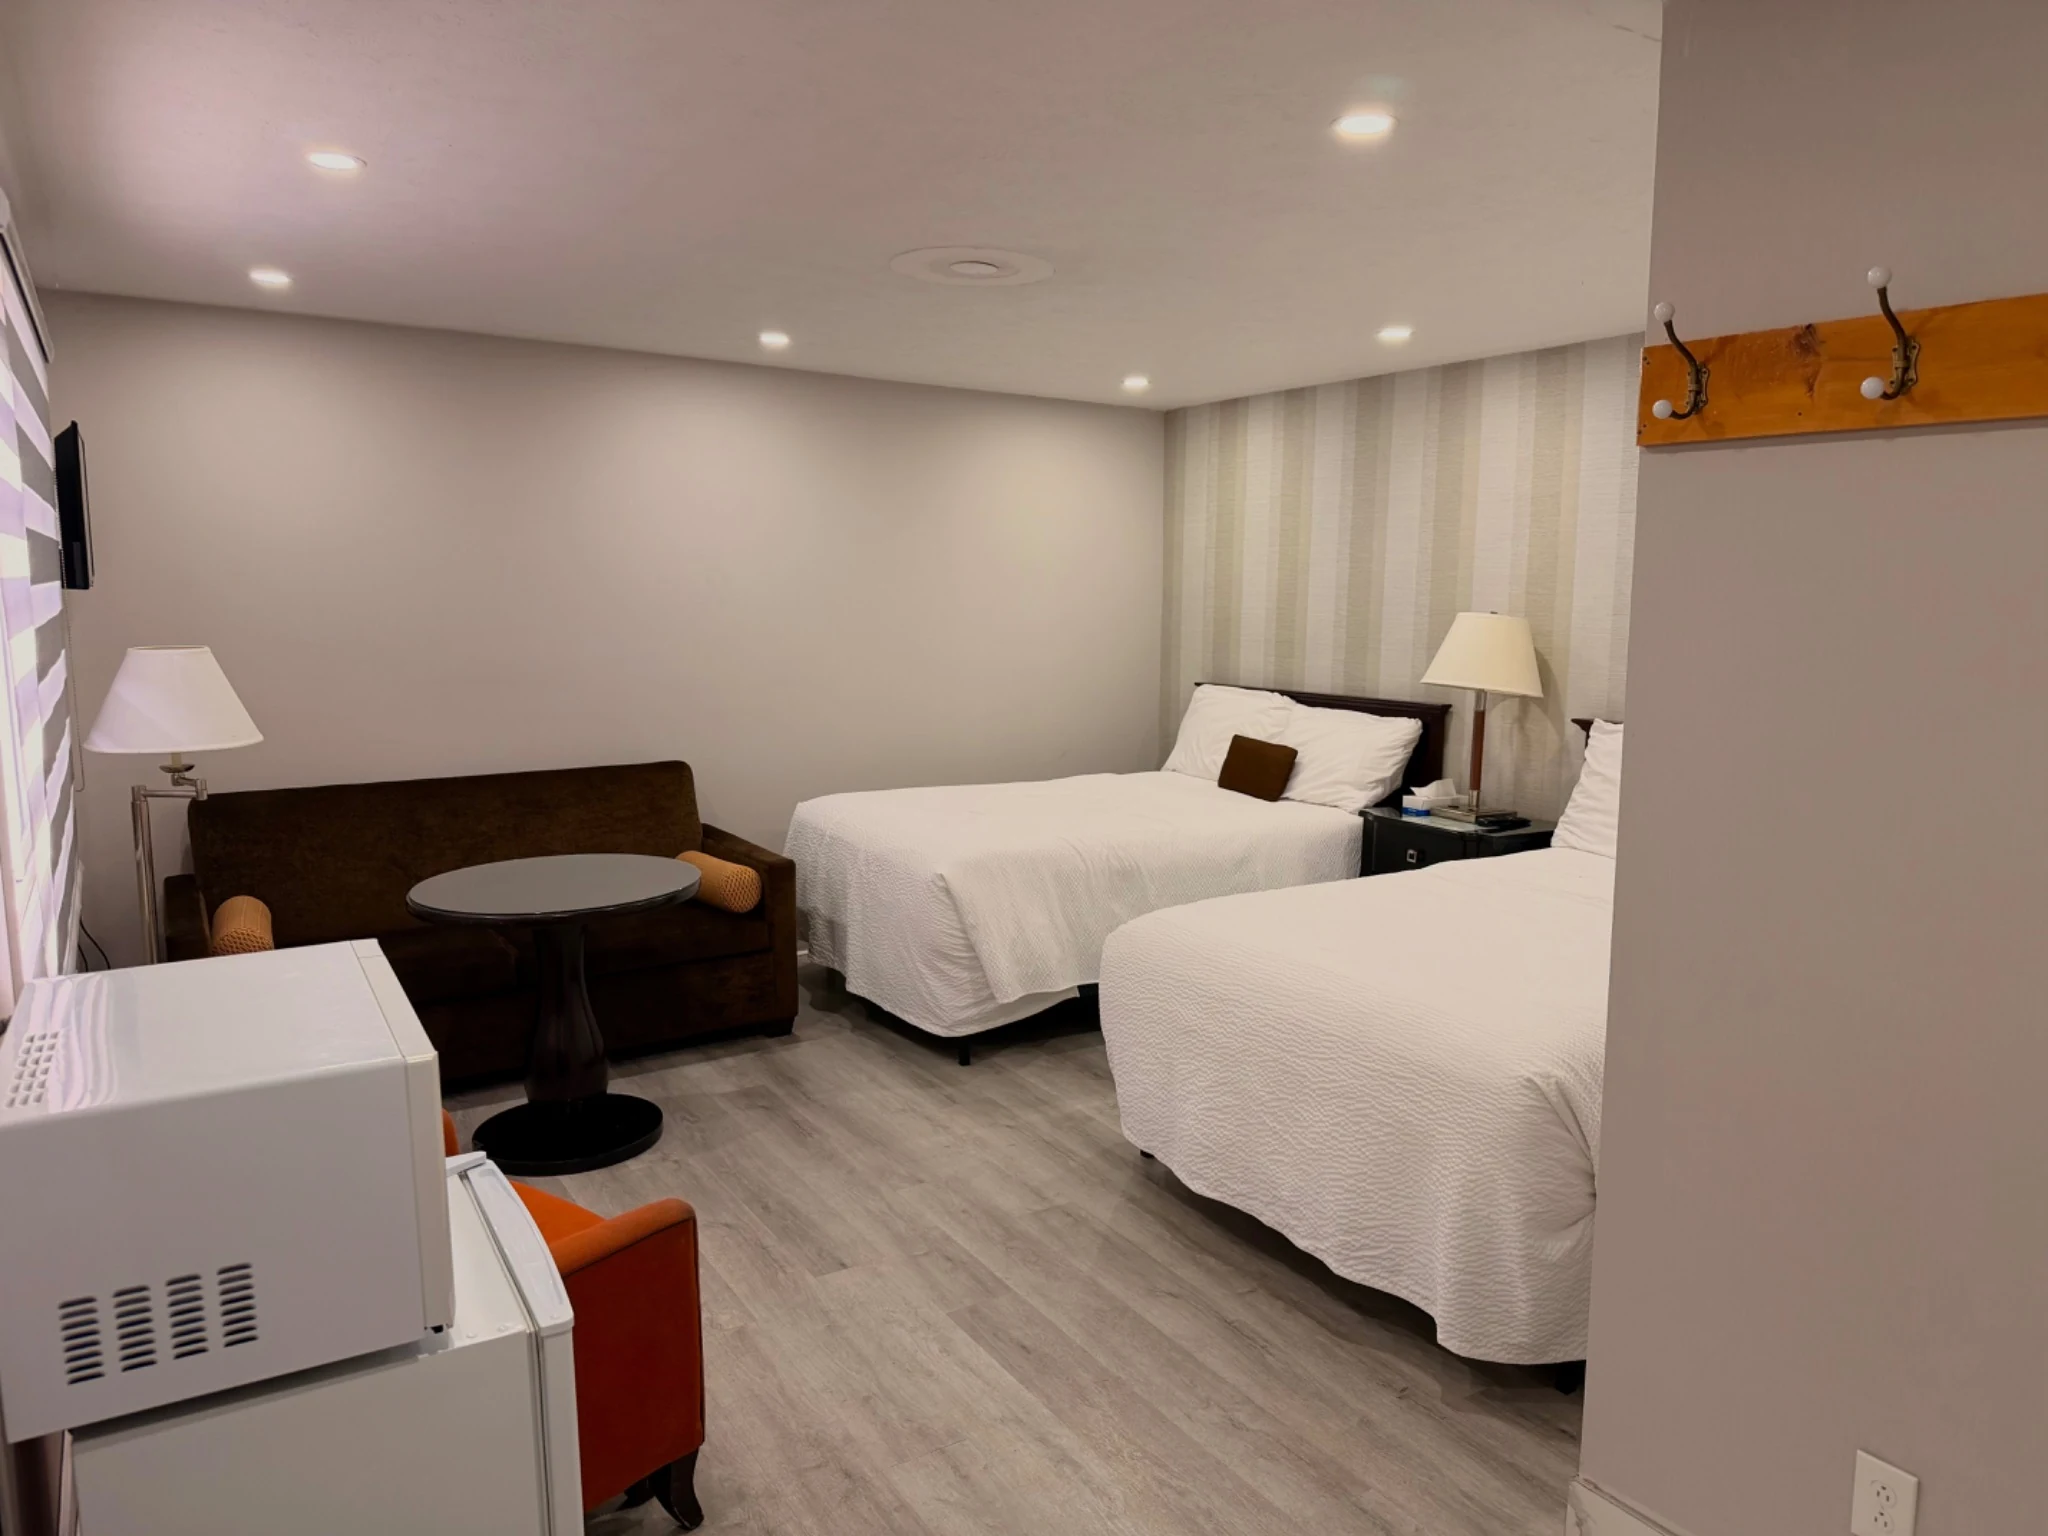
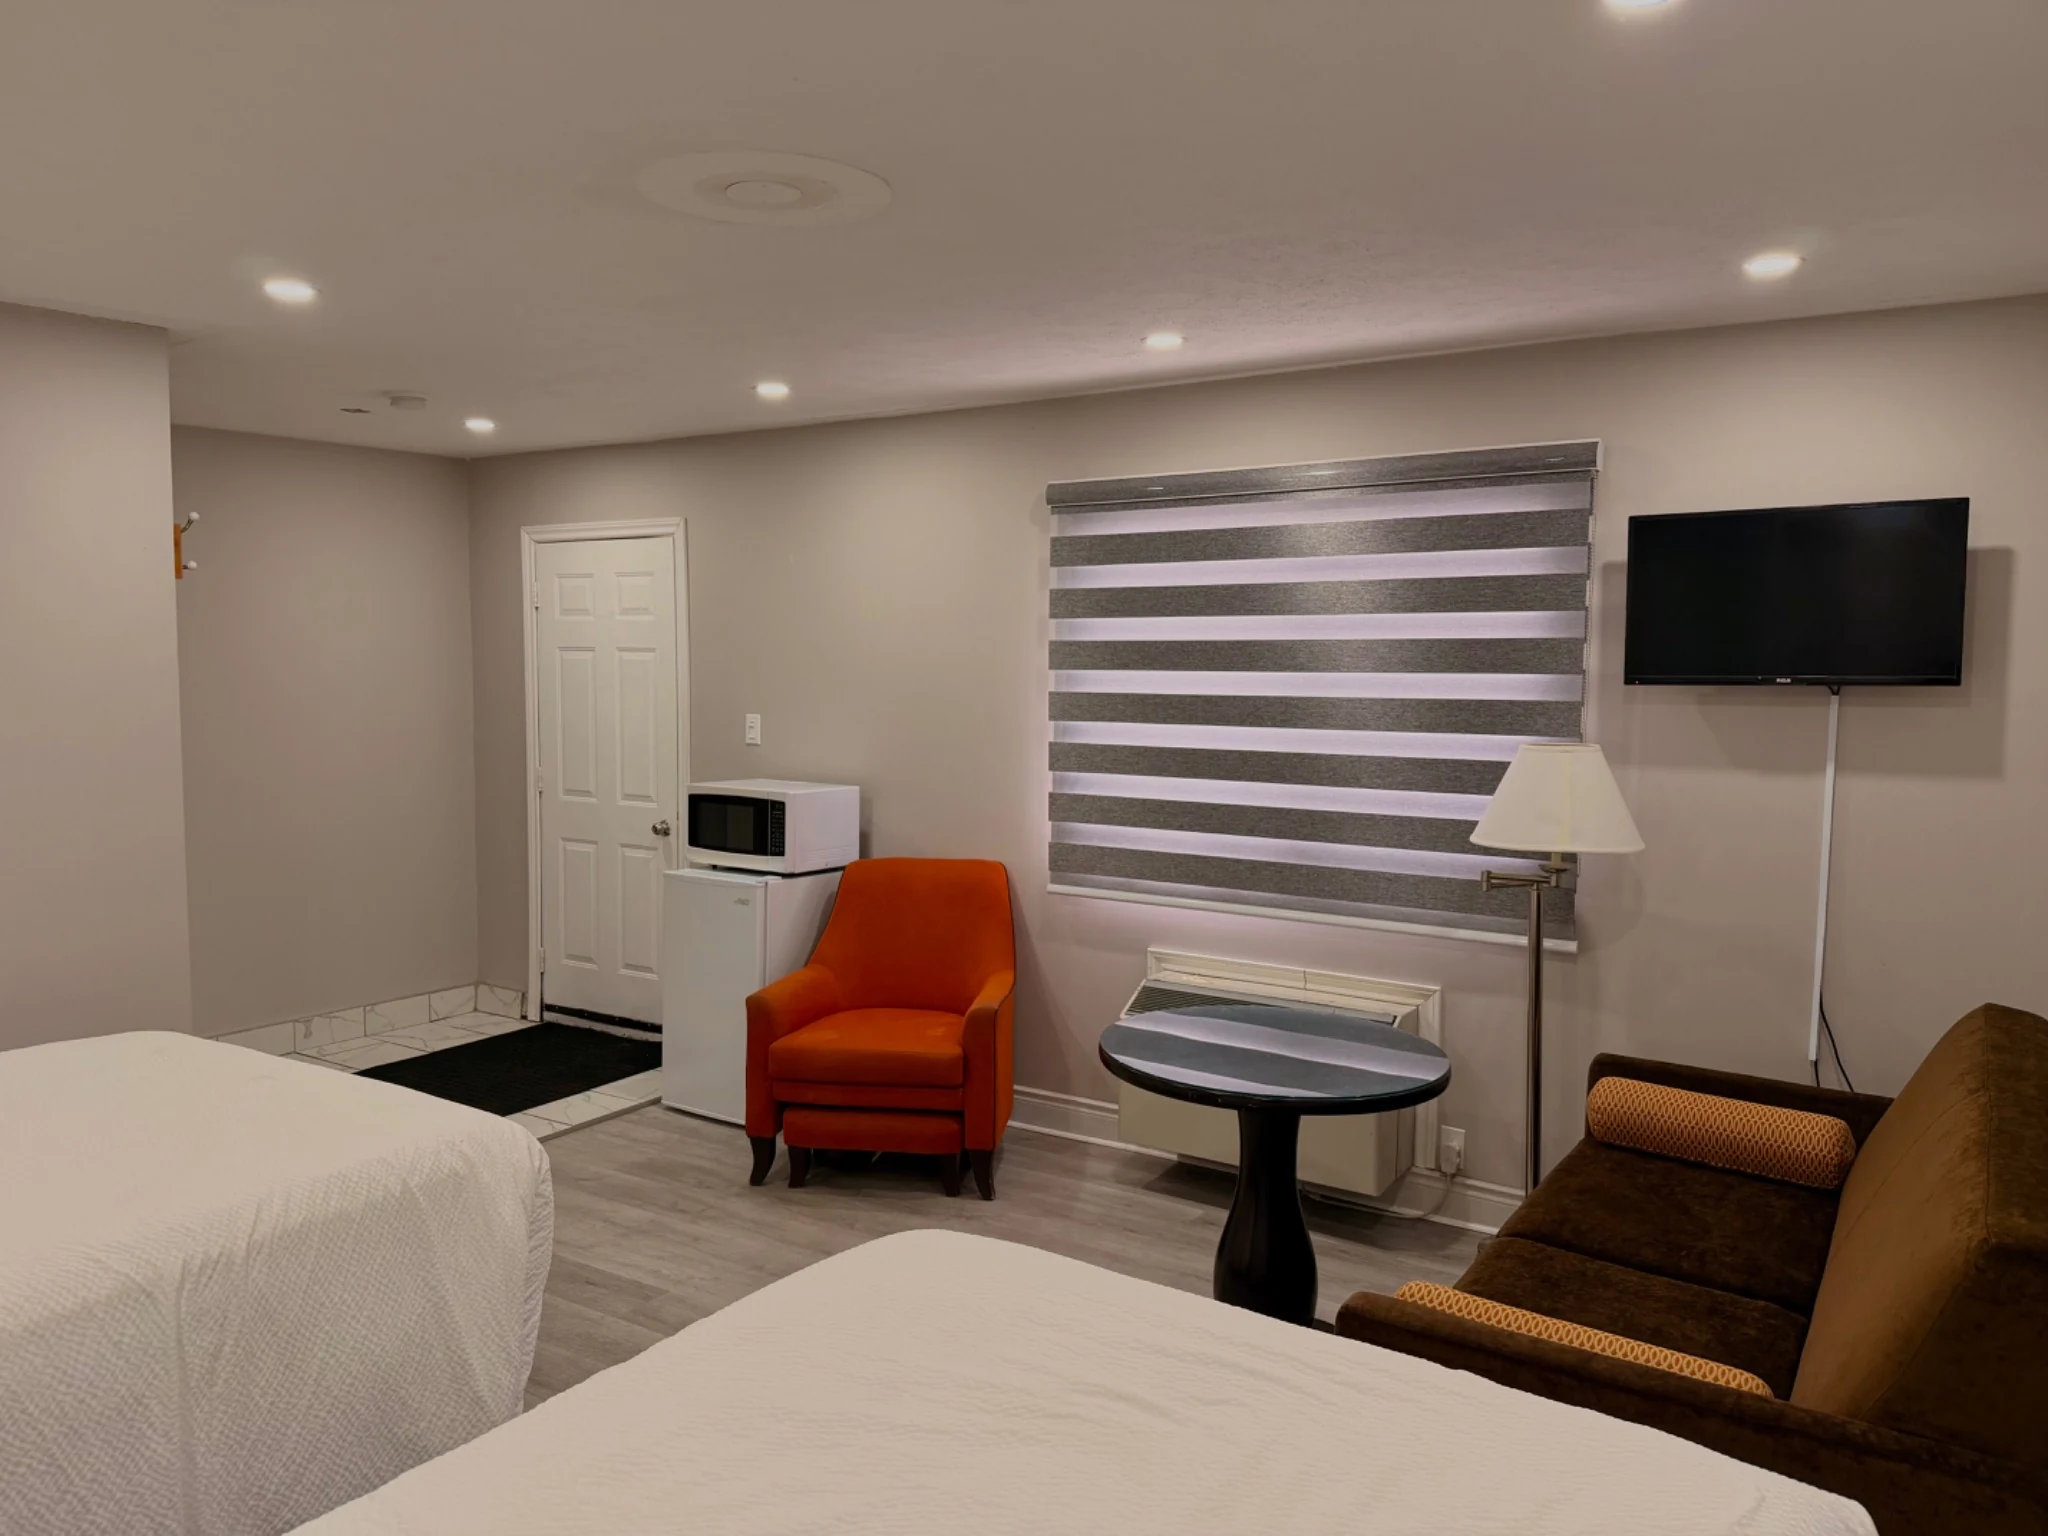
Update family room photos and property gallery

diff --git a/src/data/siteImages.js b/src/data/siteImages.js
@@ -34,6 +34,8 @@ export const siteImages = {
     familyBeds: "/images/rooms/family-room/room/beds-photo/main.webp",
     familySofa: "/images/rooms/family-room/room/sofa-bed-photo/main.webp",
     familyBathroom: "/images/rooms/family-room/bathroom/main-photo/bathroom.webp",
+    familyBathroomVanity: "/images/rooms/family-room/bathroom/vanity-photo/vanity.webp",
+    familyBathroomMirror: "/images/rooms/family-room/bathroom/mirror-photo/mirror.webp",
     familyPet: "/images/rooms/family-room/pet-friendly/supporting-photo/featured.webp",
     deluxeFamilyMain: "/images/rooms/deluxe-family-room/room/main-photo/main.webp",
     deluxeQueenBeds: "/images/rooms/deluxe-family-room/room/queen-beds-photo/main.webp",
@@ -98,10 +100,6 @@ export const siteImages = {
     poolFeatured: "/images/see-our-property/seasonal-pool-and-patio/featured-photo/featured.webp",
     poolPatio: "/images/see-our-property/seasonal-pool-and-patio/patio-photo/main.webp",
     poolSeating: "/images/see-our-property/seasonal-pool-and-patio/seating-photo/main.webp",
-    roomsFeatured: "/images/see-our-property/rooms-and-suites/featured-photo/featured.webp",
-    singleQueenGallery: "/images/see-our-property/rooms-and-suites/single-queen-gallery-photo/main.webp",
-    familyRoomGallery: "/images/see-our-property/rooms-and-suites/family-room-gallery-photo/main.webp",
-    deluxeFamilyGallery: "/images/see-our-property/rooms-and-suites/deluxe-family-room-gallery-photo/main.webp",
     bathroomFeatured: "/images/see-our-property/clean-updated-bathrooms/featured-photo/featured.webp",
     singleQueenBathroom: "/images/see-our-property/clean-updated-bathrooms/single-queen-bathroom-photo/bathroom.webp",
     familyBathroom: "/images/see-our-property/clean-updated-bathrooms/family-room-bathroom-photo/bathroom.webp",

diff --git a/src/data/gallery.js b/src/data/gallery.js
@@ -5,7 +5,6 @@ export const galleryCategories = [
   { label: "Outdoor Spaces", value: "outdoor-spaces" },
   { label: "Fire Pit Evenings", value: "fire-pit-evenings" },
   { label: "Seasonal Pool & Patio", value: "seasonal-pool-and-patio" },
-  { label: "Rooms & Suites", value: "rooms-and-suites" },
   { label: "Clean Updated Bathrooms", value: "clean-updated-bathrooms" },
   { label: "Nearby Places to Explore", value: "nearby-places-to-explore" },
 ];
@@ -25,13 +24,6 @@ export const galleryItems = [
     src: siteImages.seeOurProperty.firePitEvening,
     alt: "Fire pit area at Wiarton Willys Inn",
     caption: "Fire Pit Area",
-  },
-  {
-    category: "rooms-and-suites",
-    categoryLabel: "Rooms & Suites",
-    src: siteImages.seeOurProperty.roomsFeatured,
-    alt: "Updated room at Wiarton Willys Inn",
-    caption: "Rooms & Suites",
   },
   {
     category: "seasonal-pool-and-patio",
@@ -83,13 +75,6 @@ export const galleryItems = [
     caption: "Bruce’s Caves",
   },
   {
-    category: "rooms-and-suites",
-    categoryLabel: "Rooms & Suites",
-    src: siteImages.seeOurProperty.singleQueenGallery,
-    alt: "Single Queen Room at Wiarton Willys Inn",
-    caption: "Single Queen Room",
-  },
-  {
     category: "fire-pit-evenings",
     categoryLabel: "Fire Pit Evenings",
     src: siteImages.seeOurProperty.firePitSeating,
@@ -102,13 +87,6 @@ export const galleryItems = [
     src: siteImages.seeOurProperty.poolPatio,
     alt: "Pool patio at Wiarton Willys Inn",
     caption: "Pool Patio",
-  },
-  {
-    category: "rooms-and-suites",
-    categoryLabel: "Rooms & Suites",
-    src: siteImages.seeOurProperty.familyRoomGallery,
-    alt: "Family Room at Wiarton Willys Inn",
-    caption: "Family Room",
   },
   {
     category: "clean-updated-bathrooms",

diff --git a/src/data/rooms.js b/src/data/rooms.js
@@ -70,8 +70,9 @@ export const rooms = [
     images: [
       { src: siteImages.rooms.familyRoomMain, alt: "Family Room at Wiarton Willys Inn", caption: "Family Room" },
       { src: siteImages.rooms.familyBeds, alt: "Two double beds inside the Family Room", caption: "Two Double Beds" },
-      { src: siteImages.rooms.familySofa, alt: "Double-sized sofa bed inside the Family Room", caption: "Sofa Bed" },
       { src: siteImages.rooms.familyBathroom, alt: "Renovated private bathroom in the Family Room", caption: "Updated Bathroom" },
+      { src: siteImages.rooms.familyBathroomVanity, alt: "Bathroom vanity inside the Family Room", caption: "Bathroom Vanity" },
+      { src: siteImages.rooms.familyBathroomMirror, alt: "Lighted bathroom mirror inside the Family Room", caption: "Bathroom Mirror" },
     ],
     related: ["single-queen-room", "deluxe-family-room"],
   },

diff --git a/public/images/rooms/family-room/bathroom/mirror-photo/README.md b/public/images/rooms/family-room/bathroom/mirror-photo/README.md
@@ -1,0 +1,1 @@
+Use this folder for the Family Room bathroom mirror detail photo.

diff --git a/public/images/rooms/family-room/bathroom/vanity-photo/README.md b/public/images/rooms/family-room/bathroom/vanity-photo/README.md
@@ -1,0 +1,1 @@
+Use this folder for the Family Room bathroom vanity photo.
